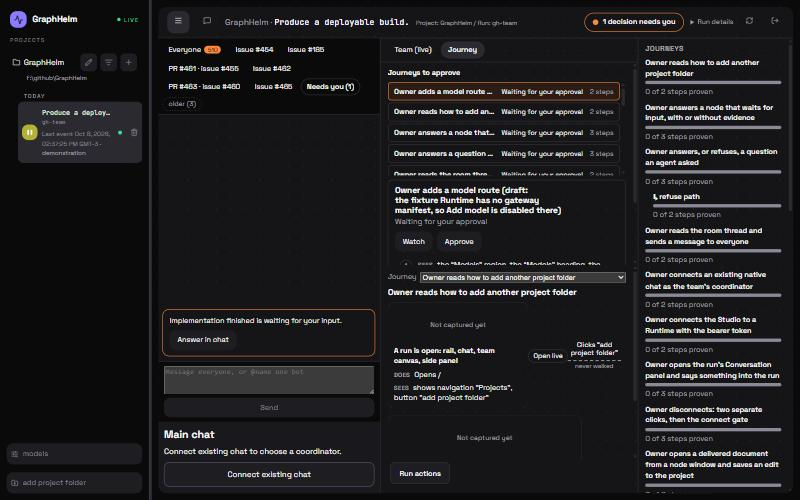
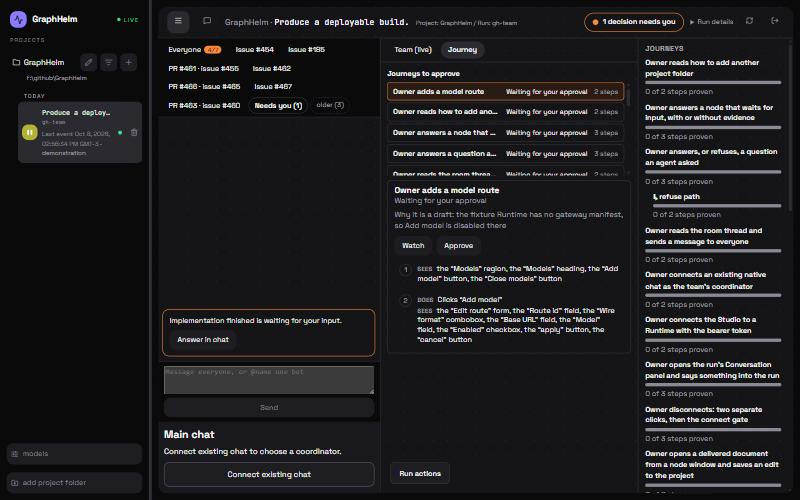
fix(studio): one journey selection drives the map; drafts show no proof labels; title notes leave the name
Session: gh-claude-4 · Head: 00648c9b

Refs #465

diff --git a/apps/studio/src/components/journey-flows.tsx b/apps/studio/src/components/journey-flows.tsx
@@ -22,6 +22,16 @@ export interface JourneyFlowsProps {
   sessions?: LiveSession[] | null;
   /** Play the flow in a headed browser (#462). Resolves when the play ends. Absent: no Watch. */
   onWatch?: (flowId: string) => Promise<void>;
+  /** The journey the owner selected (and its status), so the proof map below follows it. */
+  onSelect?: (flowId: string, status: JourneyFlowView["status"]) => void;
+}
+
+/** A title's trailing parenthetical is a note for the reader (`Name (draft: why)`), not the name. */
+export function splitTitle(title: string): { name: string; note: string | null } {
+  const match = /^(.*\S)\s*\(([^()]*)\)\s*$/.exec(title);
+  if (match === null) return { name: title, note: null };
+  const note = match[2]!.replace(/^draft\s*[:—-]\s*/i, "").trim();
+  return { name: match[1]!, note: note === "" ? null : note };
 }
 
 const STATUS_LABEL: Record<JourneyFlowView["status"], string> = {
@@ -97,6 +107,7 @@ function Detail({ flow, onApprove, onWatch, session }: { flow: JourneyFlowView; 
   const settled = flow.status === "approved" && !flow.approvable;
   const blocked = !flow.approvable && flow.findings.some((finding) => finding.severity === "error");
   const steps = stepsOf(flow);
+  const title = splitTitle(flow.title ?? flow.id);
   const current = currentStep(steps, session);
   const playing = session?.state === "playing";
   const approve = () => {
@@ -111,9 +122,10 @@ function Detail({ flow, onApprove, onWatch, session }: { flow: JourneyFlowView; 
     onWatch(flow.id).catch((cause: unknown) => setError(cause instanceof Error ? cause.message : String(cause))).finally(() => setStarting(false));
   };
   return (
-    <article className="journey-flow" data-status={flow.status} aria-label={`Journey ${flow.title ?? flow.id}`}>
-      <h3 className="journey-title">{flow.title ?? flow.id}</h3>
+    <article className="journey-flow" data-status={flow.status} aria-label={`Journey ${title.name}`}>
+      <h3 className="journey-title">{title.name}</h3>
       <p className="journey-flow-status">{STATUS_LABEL[flow.status]}</p>
+      {title.note !== null && <p className="journey-flow-note">Why it is a draft: {title.note}</p>}
       <div className="journey-flow-approve">
         {onWatch && (
           <button type="button" onClick={watch} disabled={starting || playing}>{starting || playing ? "Playing…" : "Watch"}</button>
@@ -148,7 +160,7 @@ function flowOf(flows: JourneyFlowView[], journeyId: string | null | undefined):
   return owners.sort((a, b) => b.id.length - a.id.length)[0]?.id ?? null;
 }
 
-export function JourneyFlows({ view, failure = null, onApprove, focusFlowId = null, sessions = null, onWatch }: JourneyFlowsProps) {
+export function JourneyFlows({ view, failure = null, onApprove, focusFlowId = null, sessions = null, onWatch, onSelect }: JourneyFlowsProps) {
   const focused = view === null ? null : flowOf(view.flows, focusFlowId);
   const [picked, setPicked] = useState<string | null>(null);
   const detail = useRef<HTMLDivElement>(null);
@@ -158,6 +170,11 @@ export function JourneyFlows({ view, failure = null, onApprove, focusFlowId = nu
     detail.current?.scrollIntoView?.({ block: "start" });
     detail.current?.focus();
   }, [focused]);
+  const chosen = view === null || view.flows.length === 0 ? null
+    : view.flows.find((flow) => flow.id === picked) ?? view.flows.find((flow) => flow.approvable) ?? view.flows[0]!;
+  useEffect(() => {
+    if (chosen !== null) onSelect?.(chosen.id, chosen.status);
+  }, [chosen?.id, chosen?.status, onSelect]);
   if (view === null) {
     return failure === null ? null : <section className="journey-flows" aria-label="Journey flows"><p className="journey-failure" role="alert">{failure}</p></section>;
   }
@@ -173,7 +190,7 @@ export function JourneyFlows({ view, failure = null, onApprove, focusFlowId = nu
         {view.flows.map((flow) => (
           <li key={flow.id}>
             <button type="button" className="journey-flow-row" aria-pressed={flow.id === selectedId} data-status={flow.status} onClick={() => setPicked(flow.id)}>
-              <span className="journey-flow-row-title">{flow.title ?? flow.id}</span>
+              <span className="journey-flow-row-title">{splitTitle(flow.title ?? flow.id).name}</span>
               <span className="journey-flow-row-status">{STATUS_LABEL[flow.status]}</span>
               <span className="journey-flow-row-steps">{stepsOf(flow).length} steps</span>
             </button>

diff --git a/apps/studio/src/App.test.tsx b/apps/studio/src/App.test.tsx
@@ -579,6 +579,32 @@ describe("live team layout", () => {
     await userEvent.click(card);
     expect(screen.getByRole("dialog", { name: "Cart detail" })).toHaveTextContent("Captured in run demo-deploy (not the selected run)");
   });
+
+  // #465: one source of truth for which journey is on screen. The map below followed its own
+  // picker while the list above had another journey selected, and a draft showed proof labels
+  // ("Not captured yet", Open live) where the owner's only actions are Watch and Approve.
+  it("the journey map follows the list, has no picker of its own, and is not shown for a draft", async () => {
+    const step = (stepId: string) => ({ stepId, screen: { screenId: stepId, title: stepId, scopePaths: ["src"] }, capture: null, promises: [] });
+    const view = { head: "abc", journeys: [
+      { contractId: "checkout", title: "Checkout", arrows: [], steps: [step("cart")] },
+      { contractId: "paid", title: "Paid order", arrows: [], steps: [step("receipt")] },
+    ] };
+    const flowOf = (id: string, status: string, approvable: boolean) => ({ id, title: `${id} flow`, status, approvable, drift: [], findings: [],
+      approved: status === "approved" ? { revision: "a".repeat(40), digest: "sha256:b" } : null,
+      screens: [{ id: "s", url: "/", state: "stable" }], edges: [], paths: {} });
+    const journeyFlows = vi.fn(async () => ({ flows: [flowOf("checkout", "draft", true), flowOf("paid", "approved", false)] }));
+    await open(stubClient({ journeys: vi.fn(async () => view), journeyFlows }));
+    await userEvent.click(screen.getByRole("tab", { name: "Journey" }));
+    expect(await screen.findByRole("article", { name: "Journey checkout flow" })).toBeInTheDocument();
+    expect(screen.queryByRole("region", { name: "Journey" })).toBeNull();
+    expect(screen.queryByText("Not captured yet")).toBeNull();
+
+    await userEvent.click(within(screen.getByRole("list", { name: "Journeys" })).getByRole("button", { name: /^paid flow/ }));
+    const map = await screen.findByRole("region", { name: "Journey" });
+    expect(within(map).queryByRole("combobox")).toBeNull();
+    expect(within(map).getByRole("button", { name: "receipt, open detail" })).toBeInTheDocument();
+    expect(within(map).queryByRole("button", { name: "cart, open detail" })).toBeNull();
+  });
 });
 
 /** The ordinary loop: the dev server hands the page a token and it opens connected. */

diff --git a/apps/studio/src/App.tsx b/apps/studio/src/App.tsx
@@ -2121,6 +2121,8 @@ export default function App({
   // #465: Watch plays a flow in a headed browser (#462); the call answers when the play ends, and
   // the sessions read above lights the current step meanwhile.
   const [watchingFlow, setWatchingFlow] = useState<string | null>(null);
+  const [chosenFlow, setChosenFlow] = useState<{ id: string; status: string } | null>(null);
+  const selectFlow = useCallback((id: string, status: string) => setChosenFlow({ id, status }), []);
   const watchFlow = useCallback(async (flowId: string) => {
     const client = clientRef.current;
     if (client === null) throw new Error("Not connected.");
@@ -2973,9 +2975,12 @@ export default function App({
             </div>
             <div id="studio-panel-journeys" role="tabpanel" aria-labelledby="studio-tab-journeys" hidden={canvasTab !== "journey"}>
             {canvasTab === "journey" && <JourneyFlows view={flowsRead.view} failure={flowsRead.failure} onApprove={approveFlow} focusFlowId={journeyContract}
-              sessions={liveSessions} {...(liveSessions === null ? {} : { onWatch: watchFlow })} />}
-            {canvasTab === "journey" && (
-              <JourneyCanvas view={journeysView} failed={journeysFailed} failure={journeysFailure} contractId={journeyContract} onSelectContract={setJourneyContract}
+              sessions={liveSessions} onSelect={selectFlow} {...(liveSessions === null ? {} : { onWatch: watchFlow })} />}
+            {/* #465: the proof map follows the journey chosen in the list; a draft has nothing proven
+              * yet, so its owner sees Watch and Approve above instead of capture labels. */}
+            {canvasTab === "journey" && (chosenFlow === null || chosenFlow.status !== "draft") && (
+              <JourneyCanvas view={journeysView} failed={journeysFailed} failure={journeysFailure} contractId={chosenFlow?.id ?? journeyContract} onSelectContract={setJourneyContract}
+                pickerHidden={chosenFlow !== null}
                 loadImage={(id, run) => (clientRef.current === null ? Promise.reject(new Error("no client")) : clientRef.current.readImage(run ?? selected, id))}
                 executionId={selected}
                 events={eventList} botName={botNameOf} beforeAfter={beforeAfter} onOpenRecords={openRecords}

diff --git a/apps/studio/src/components/journey-flows.test.tsx b/apps/studio/src/components/journey-flows.test.tsx
@@ -115,6 +115,27 @@ describe("JourneyFlows", () => {
   });
 });
 
+// #465: a title's parenthetical is a note, not the name; the selection is reported upward so the
+// proof map follows it.
+describe("JourneyFlows titles and selection", () => {
+  it("moves a title's draft note out of the name into a why-line", () => {
+    const noted: JourneyFlowsView = { flows: [flow("route", { title: "Owner adds a model route (draft: the fixture Runtime has no gateway manifest)" })] };
+    render(<JourneyFlows view={noted} onApprove={vi.fn()} />);
+    expect(within(screen.getByRole("list", { name: "Journeys" })).getByRole("button")).toHaveTextContent(/^Owner adds a model routeWaiting/);
+    const detail = screen.getByRole("article", { name: "Journey Owner adds a model route" });
+    expect(within(detail).getByRole("heading")).toHaveTextContent(/^Owner adds a model route$/);
+    expect(detail).toHaveTextContent("Why it is a draft: the fixture Runtime has no gateway manifest");
+  });
+
+  it("reports the selected journey and its status", async () => {
+    const onSelect = vi.fn();
+    render(<JourneyFlows view={view} onApprove={vi.fn()} onSelect={onSelect} />);
+    expect(onSelect).toHaveBeenLastCalledWith("checkout", "draft");
+    await pick("done");
+    expect(onSelect).toHaveBeenLastCalledWith("done", "approved");
+  });
+});
+
 // #465: Watch plays the journey in a headed browser (#462) while the step being played lights here.
 describe("JourneyFlows watch", () => {
   it("starts a watch of the selected journey and lights the step its session is on", async () => {

diff --git a/apps/studio/src/components/journey-canvas.tsx b/apps/studio/src/components/journey-canvas.tsx
@@ -37,6 +37,8 @@ export interface JourneyCanvasProps {
   opening?: Array<{ contractId: string; stepId: string }>;
   onOpenLive?: (contractId: string, stepId: string) => Promise<void>;
   onCloseLive?: (sessionId: string) => Promise<void>;
+  /** #465: the journey list above already chose the journey; no second picker here. */
+  pickerHidden?: boolean;
 }
 
 export const UNKNOWN_CAUSE: Record<CaptureUnknownCause, string> = {
@@ -184,7 +186,7 @@ export function JourneyCanvas(props: JourneyCanvasProps) {
 
   return (
     <section className="journey-canvas" aria-label="Journey">
-      {view.journeys.length > 1 && (
+      {view.journeys.length > 1 && !props.pickerHidden && (
         <label className="journey-picker">Journey{" "}
           <select value={journey.contractId} onChange={(event) => { setDetail(null); onSelectContract(event.target.value); }}>
             {view.journeys.map((candidate) => {

diff --git a/apps/studio/src/styles.css b/apps/studio/src/styles.css
@@ -2837,6 +2837,8 @@ button:disabled { color: var(--faint); cursor: not-allowed; }
 #studio-panel-journeys { display: flex; flex-direction: column; box-sizing: border-box; padding-bottom: var(--dock-reserve, 72px); }
 #studio-panel-journeys[hidden] { display: none; }
 #studio-panel-journeys > .journey-flows { flex: 0 1 auto; min-height: 0; max-height: 62%; overflow-y: auto; }
+/* #465: a draft has no proof map below; its journey takes the whole panel. */
+#studio-panel-journeys > .journey-flows:last-child { max-height: none; flex: 1 1 auto; }
 #studio-panel-journeys > .journey-canvas { flex: 1 1 auto; height: auto; }
 .cited-records { z-index: 20; }
 
